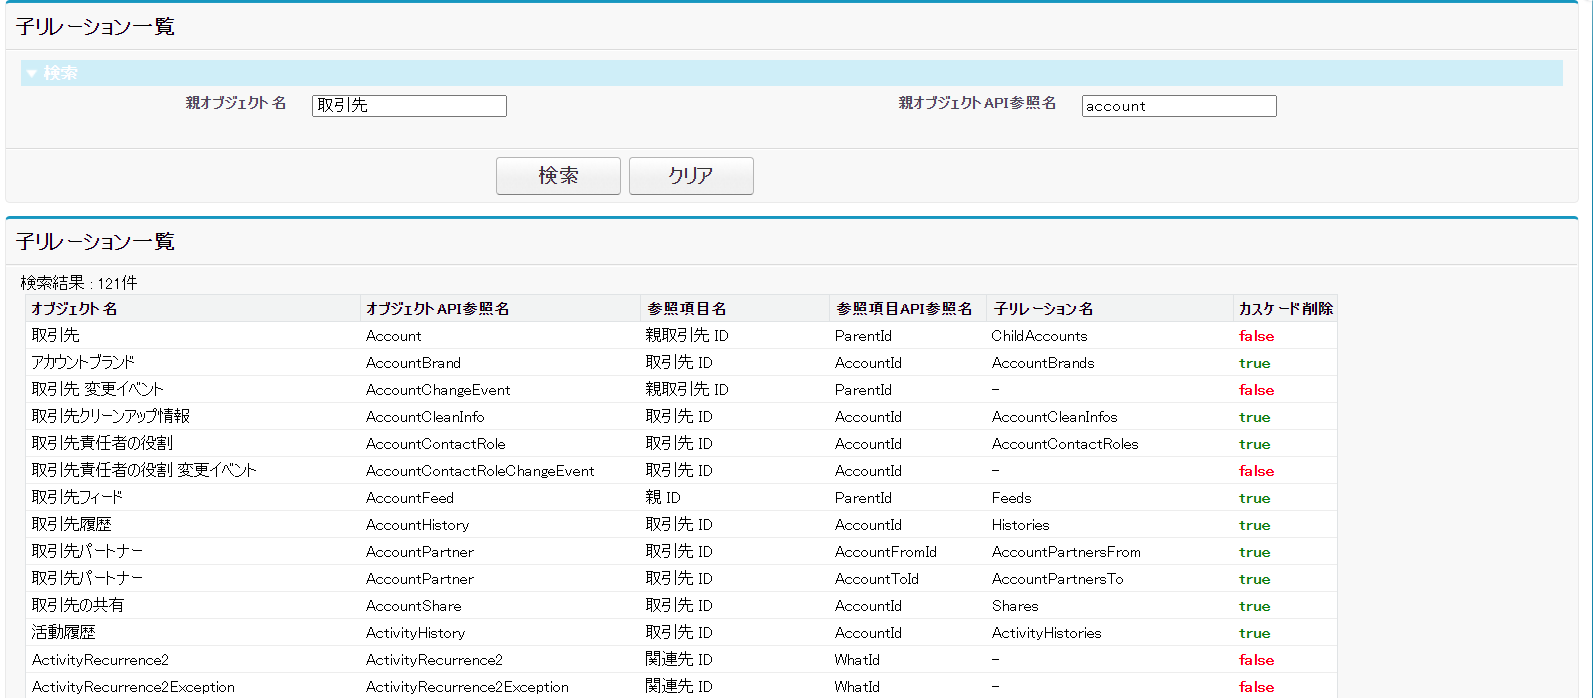
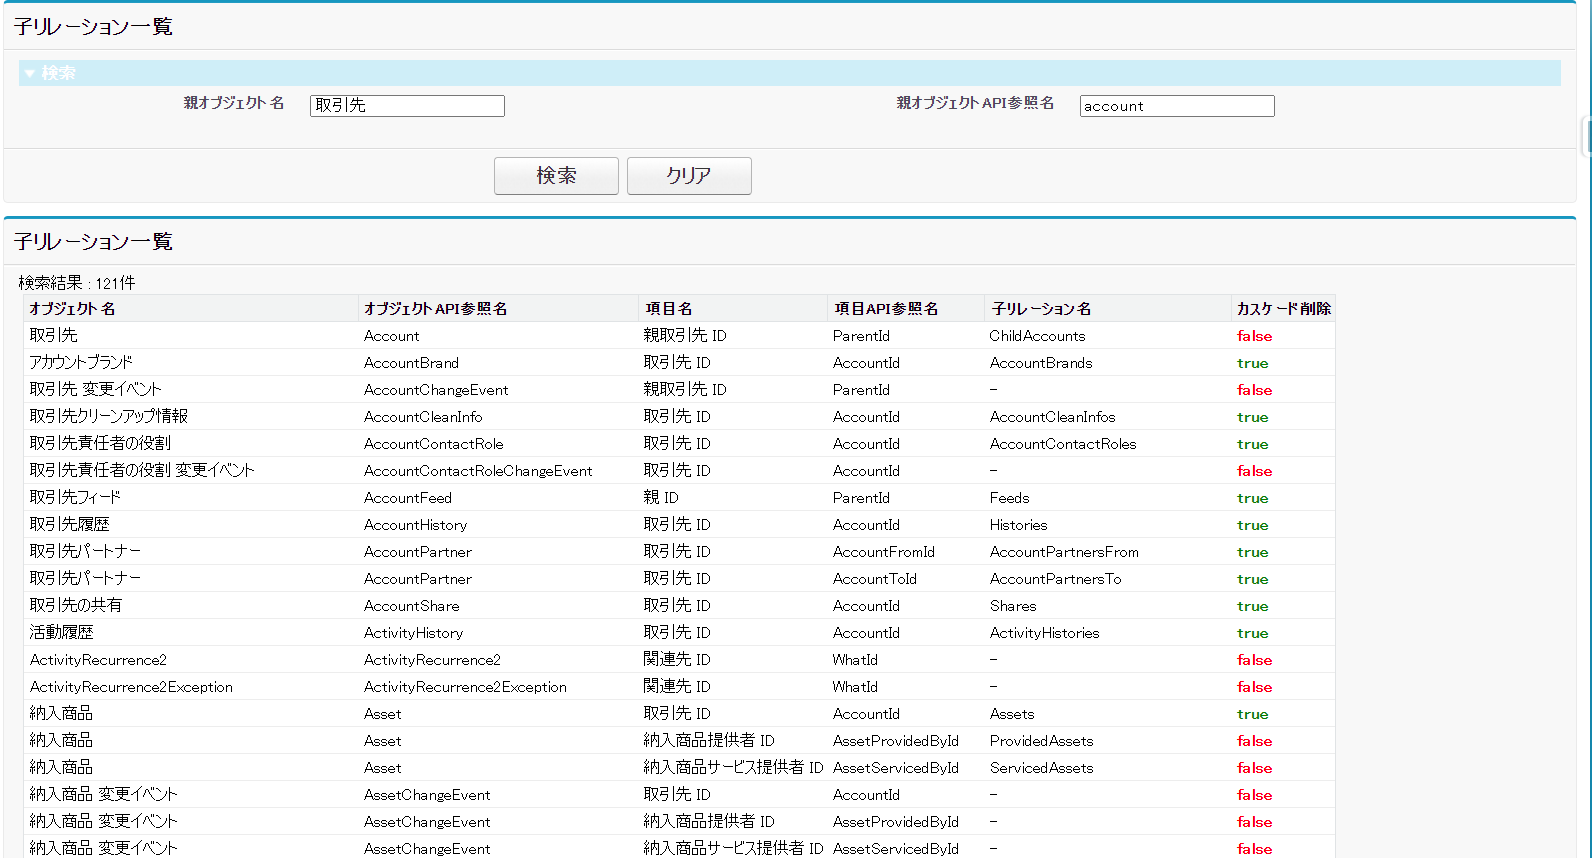
fix

diff --git a/README.md b/README.md
@@ -14,7 +14,7 @@ You can change it to English by clicking the link
 ![検索結果](/images/image02.png)
 - オブジェクト名
 - オブジェクトAPI参照名
-- 参照項目名
-- 参照項目API参照名
+- 項目名
+- 項目API参照名
 - 子リレーション名
 - カスケード削除
